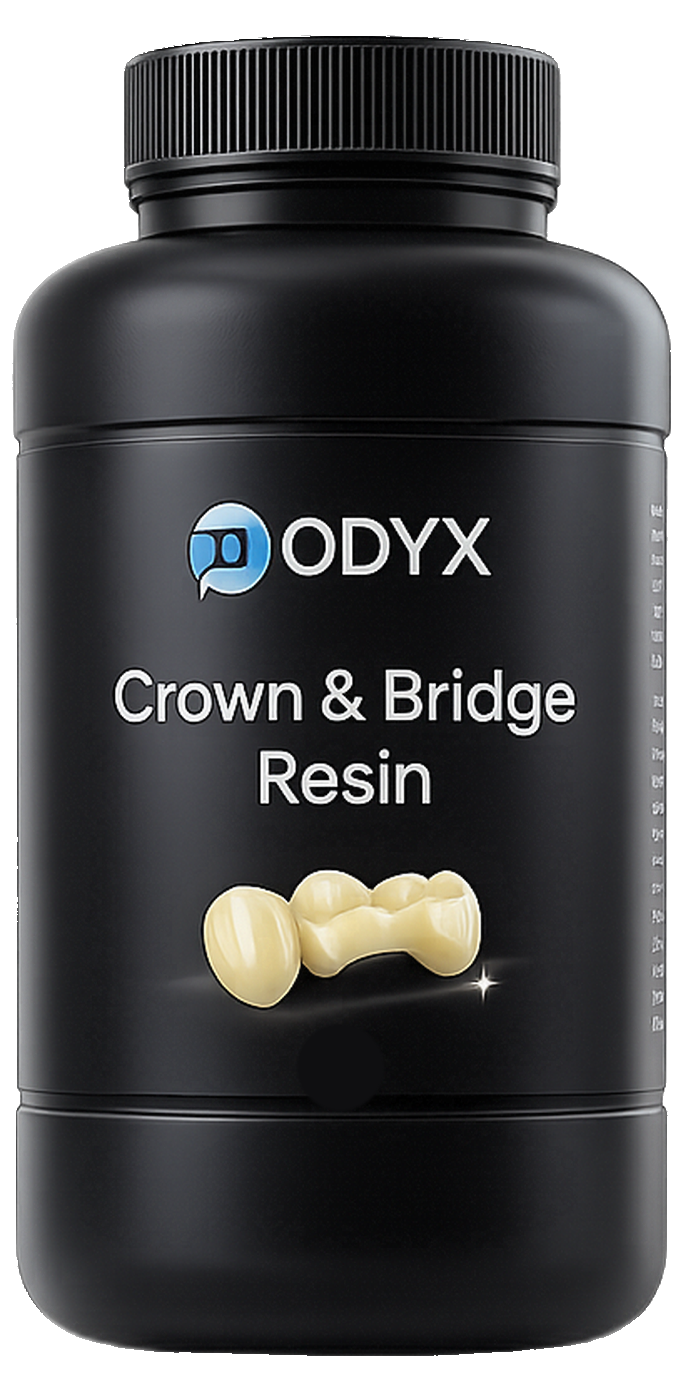
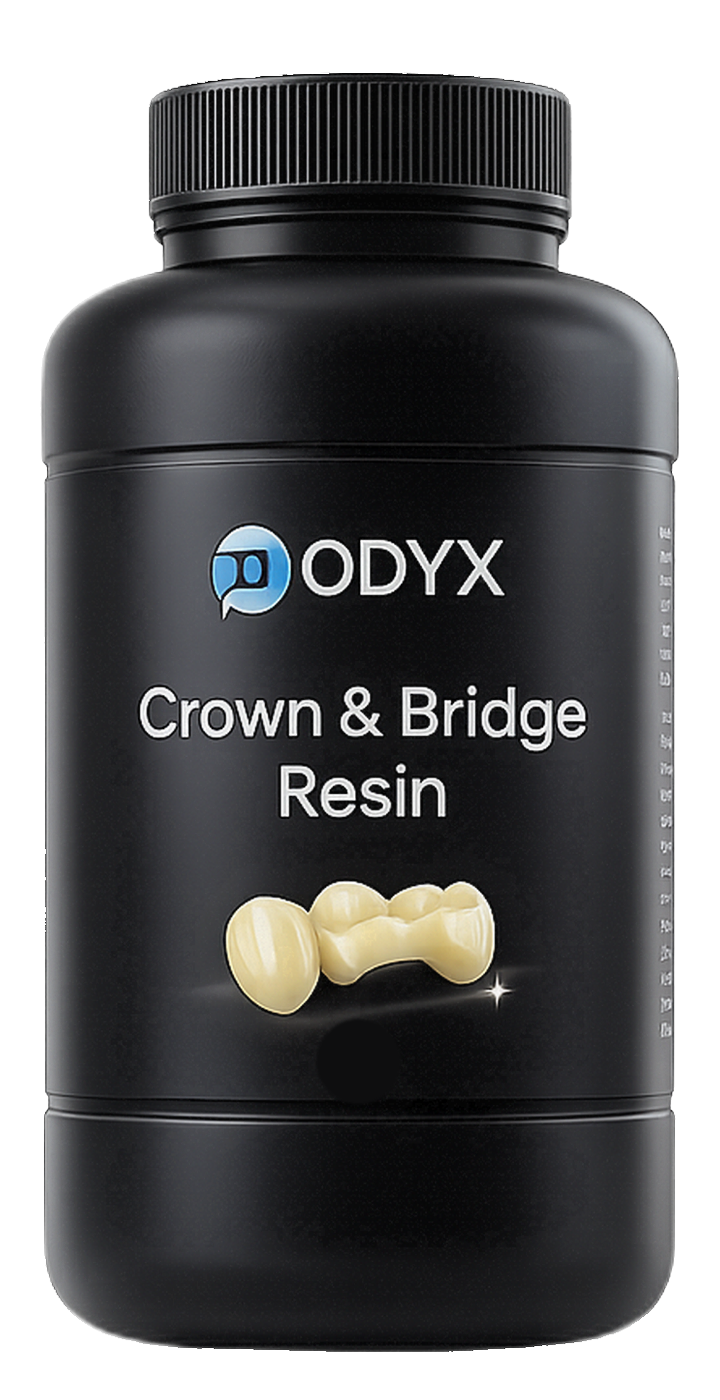
Update image assets and refine styles in ResinsRangePage
- Replaced outdated resin product images with new versions for improved quality and consistency.
- Modified CSS styles in resins.css to enhance layout, alignment, and responsiveness of product displays.
- Updated ResinsRangePage component to wrap product images in links for better user interaction and accessibility.

Changed region(s): [[0.0, 0.0, 0.9839, 0.9829], [0.1537, 0.2764, 0.7072, 0.4607], [0.2767, 0.6143, 0.7379, 0.7371]]

diff --git a/src/app/resins.css b/src/app/resins.css
@@ -109,10 +109,10 @@
 .rs-hero-grid{
   position:relative; z-index:1;
   display:grid;
-  /* Design: bottles dominate width; both columns share the same top edge */
+  /* Design: bottles dominate width; center media with copy */
   grid-template-columns:minmax(240px,.72fr) minmax(480px,1.55fr);
   gap:clamp(12px,2vw,28px);
-  align-items:start;
+  align-items:center;
 }
 .rs-hero-copy{
   padding-top:0;
@@ -171,52 +171,67 @@
   position:relative;
   margin:0;
   justify-self:stretch;
-  align-self:start; /* same top edge as copy — under toolbar */
+  align-self:center;
   width:100%;
   max-width:none;
   z-index:1;
-  /* Shorter content height; bottles still read large */
-  height:clamp(300px, 34vw, 400px);
+  display:block;
+  /* Match the right-side guide area (~full media column) */
+  height:clamp(268px, 28vw, 340px);
 }
-/* Five transparent cutouts — sit higher, near copy top */
+/* Fill the media column; five bottles evenly across it */
 .rs-hero-products{
   position:relative;
   display:flex;
-  align-items:flex-start;
+  align-items:center;
   justify-content:space-between;
-  gap:0;
+  gap:clamp(4px, .8vw, 12px);
   width:100%;
   height:100%;
   margin:0;
   padding:0;
+  box-sizing:border-box;
 }
 .rs-hero-products::after{
   /* Soft reflective floor strip under the bottles */
   content:"";
-  position:absolute; left:1%; right:1%; bottom:0;
+  position:absolute; left:1%; right:1%; bottom:2%;
   height:18%;
   background:linear-gradient(180deg, transparent 0%, rgba(180,100,240,.1) 55%, rgba(0,0,0,.4) 100%);
   filter:blur(8px);
   pointer-events:none; z-index:0;
 }
-.rs-hero-product{
+.rs-hero-product-link{
   position:relative; z-index:1;
   flex:1 1 0;
   min-width:0;
-  width:100%;
   height:100%;
+  display:flex;
+  align-items:center;
+  justify-content:center;
+  text-decoration:none;
+  outline:none;
+}
+.rs-hero-product-link:focus-visible{
+  border-radius:8px;
+  box-shadow:0 0 0 2px rgba(0,80,216,.85);
+}
+.rs-hero-product{
+  height:100%;
+  width:auto;
+  max-width:100%;
   display:block;
   object-fit:contain;
-  object-position:center top;
-  /* Design: soft contact + ambient shadow under each packshot */
+  object-position:center center;
   filter:
     drop-shadow(0 10px 14px rgba(0,0,0,.55))
     drop-shadow(0 22px 28px rgba(0,0,0,.35))
     drop-shadow(0 2px 4px rgba(40,10,60,.25));
-  transform-origin:center top;
+  transform-origin:center center;
   transition:transform .4s cubic-bezier(.2,.8,.2,1), filter .4s ease;
 }
-.rs-hero-product:hover{
+.rs-hero-product-link:hover .rs-hero-product,
+.rs-hero-product-link:focus-visible .rs-hero-product{
   transform:translateY(-3px) scale(1.03);
   filter:
     drop-shadow(0 14px 18px rgba(0,0,0,.58))

diff --git a/src/components/pages/ResinsRangePage.tsx b/src/components/pages/ResinsRangePage.tsx
@@ -56,16 +56,22 @@ export default function ResinsRangePage() {
           <figure className="rs-hero-media" aria-label={HERO.imgAlt}>
             <div className="rs-hero-products">
               {LINES.map((line, i) => (
-                <img
+                <a
                   key={line.id}
-                  className="rs-hero-product"
-                  src={`${line.img}?v=14`}
-                  alt={line.imgAlt}
-                  width={800}
-                  height={1400}
-                  fetchPriority={i === 0 ? 'high' : undefined}
-                  loading={i === 0 ? 'eager' : 'lazy'}
-                />
+                  className="rs-hero-product-link"
+                  href={line.href ?? '#lines'}
+                  aria-label={`${line.name} — view product`}
+                >
+                  <img
+                    className="rs-hero-product"
+                    src={`${line.img}?v=15`}
+                    alt={line.imgAlt}
+                    width={800}
+                    height={1400}
+                    fetchPriority={i === 0 ? 'high' : undefined}
+                    loading={i === 0 ? 'eager' : 'lazy'}
+                  />
+                </a>
               ))}
             </div>
           </figure>
@@ -84,7 +90,7 @@ export default function ResinsRangePage() {
               <article key={line.id} className={`rs-line rs-line--${line.id}`}>
                 <div className="rs-line-media">
                   <img
-                    src={`${line.img}?v=14`}
+                    src={`${line.img}?v=15`}
                     alt={line.imgAlt}
                     loading="lazy"
                     width={800}
